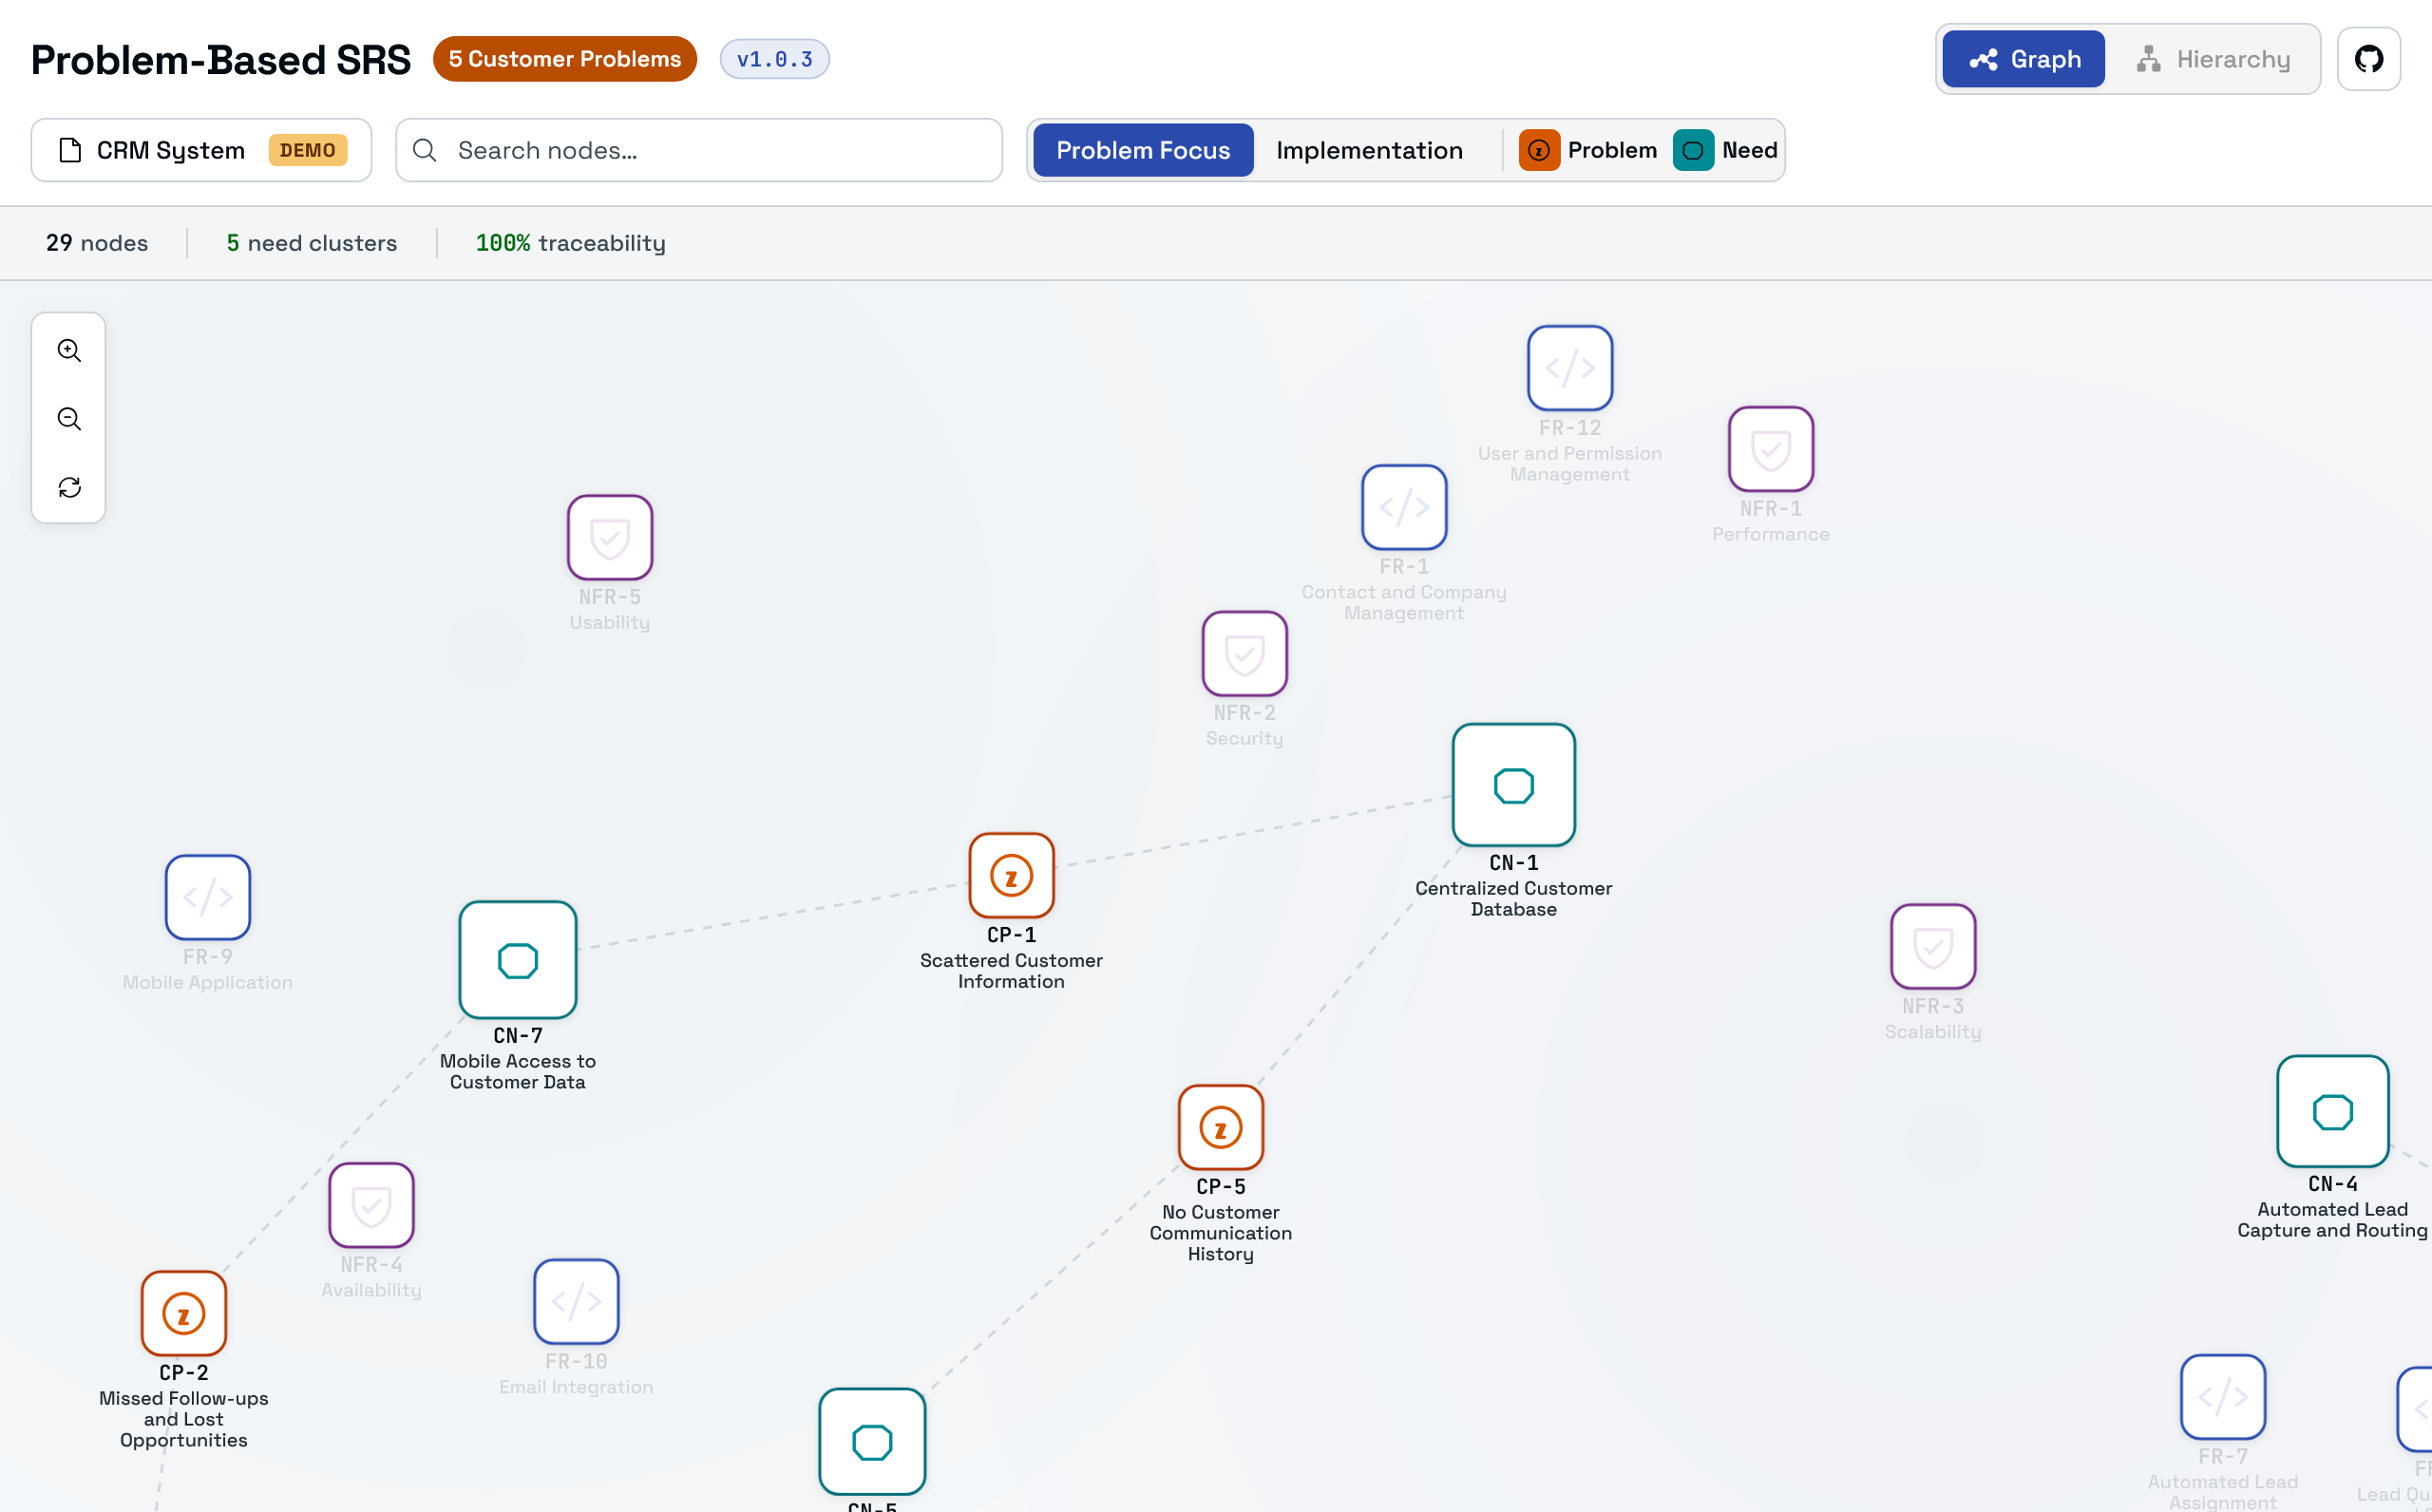
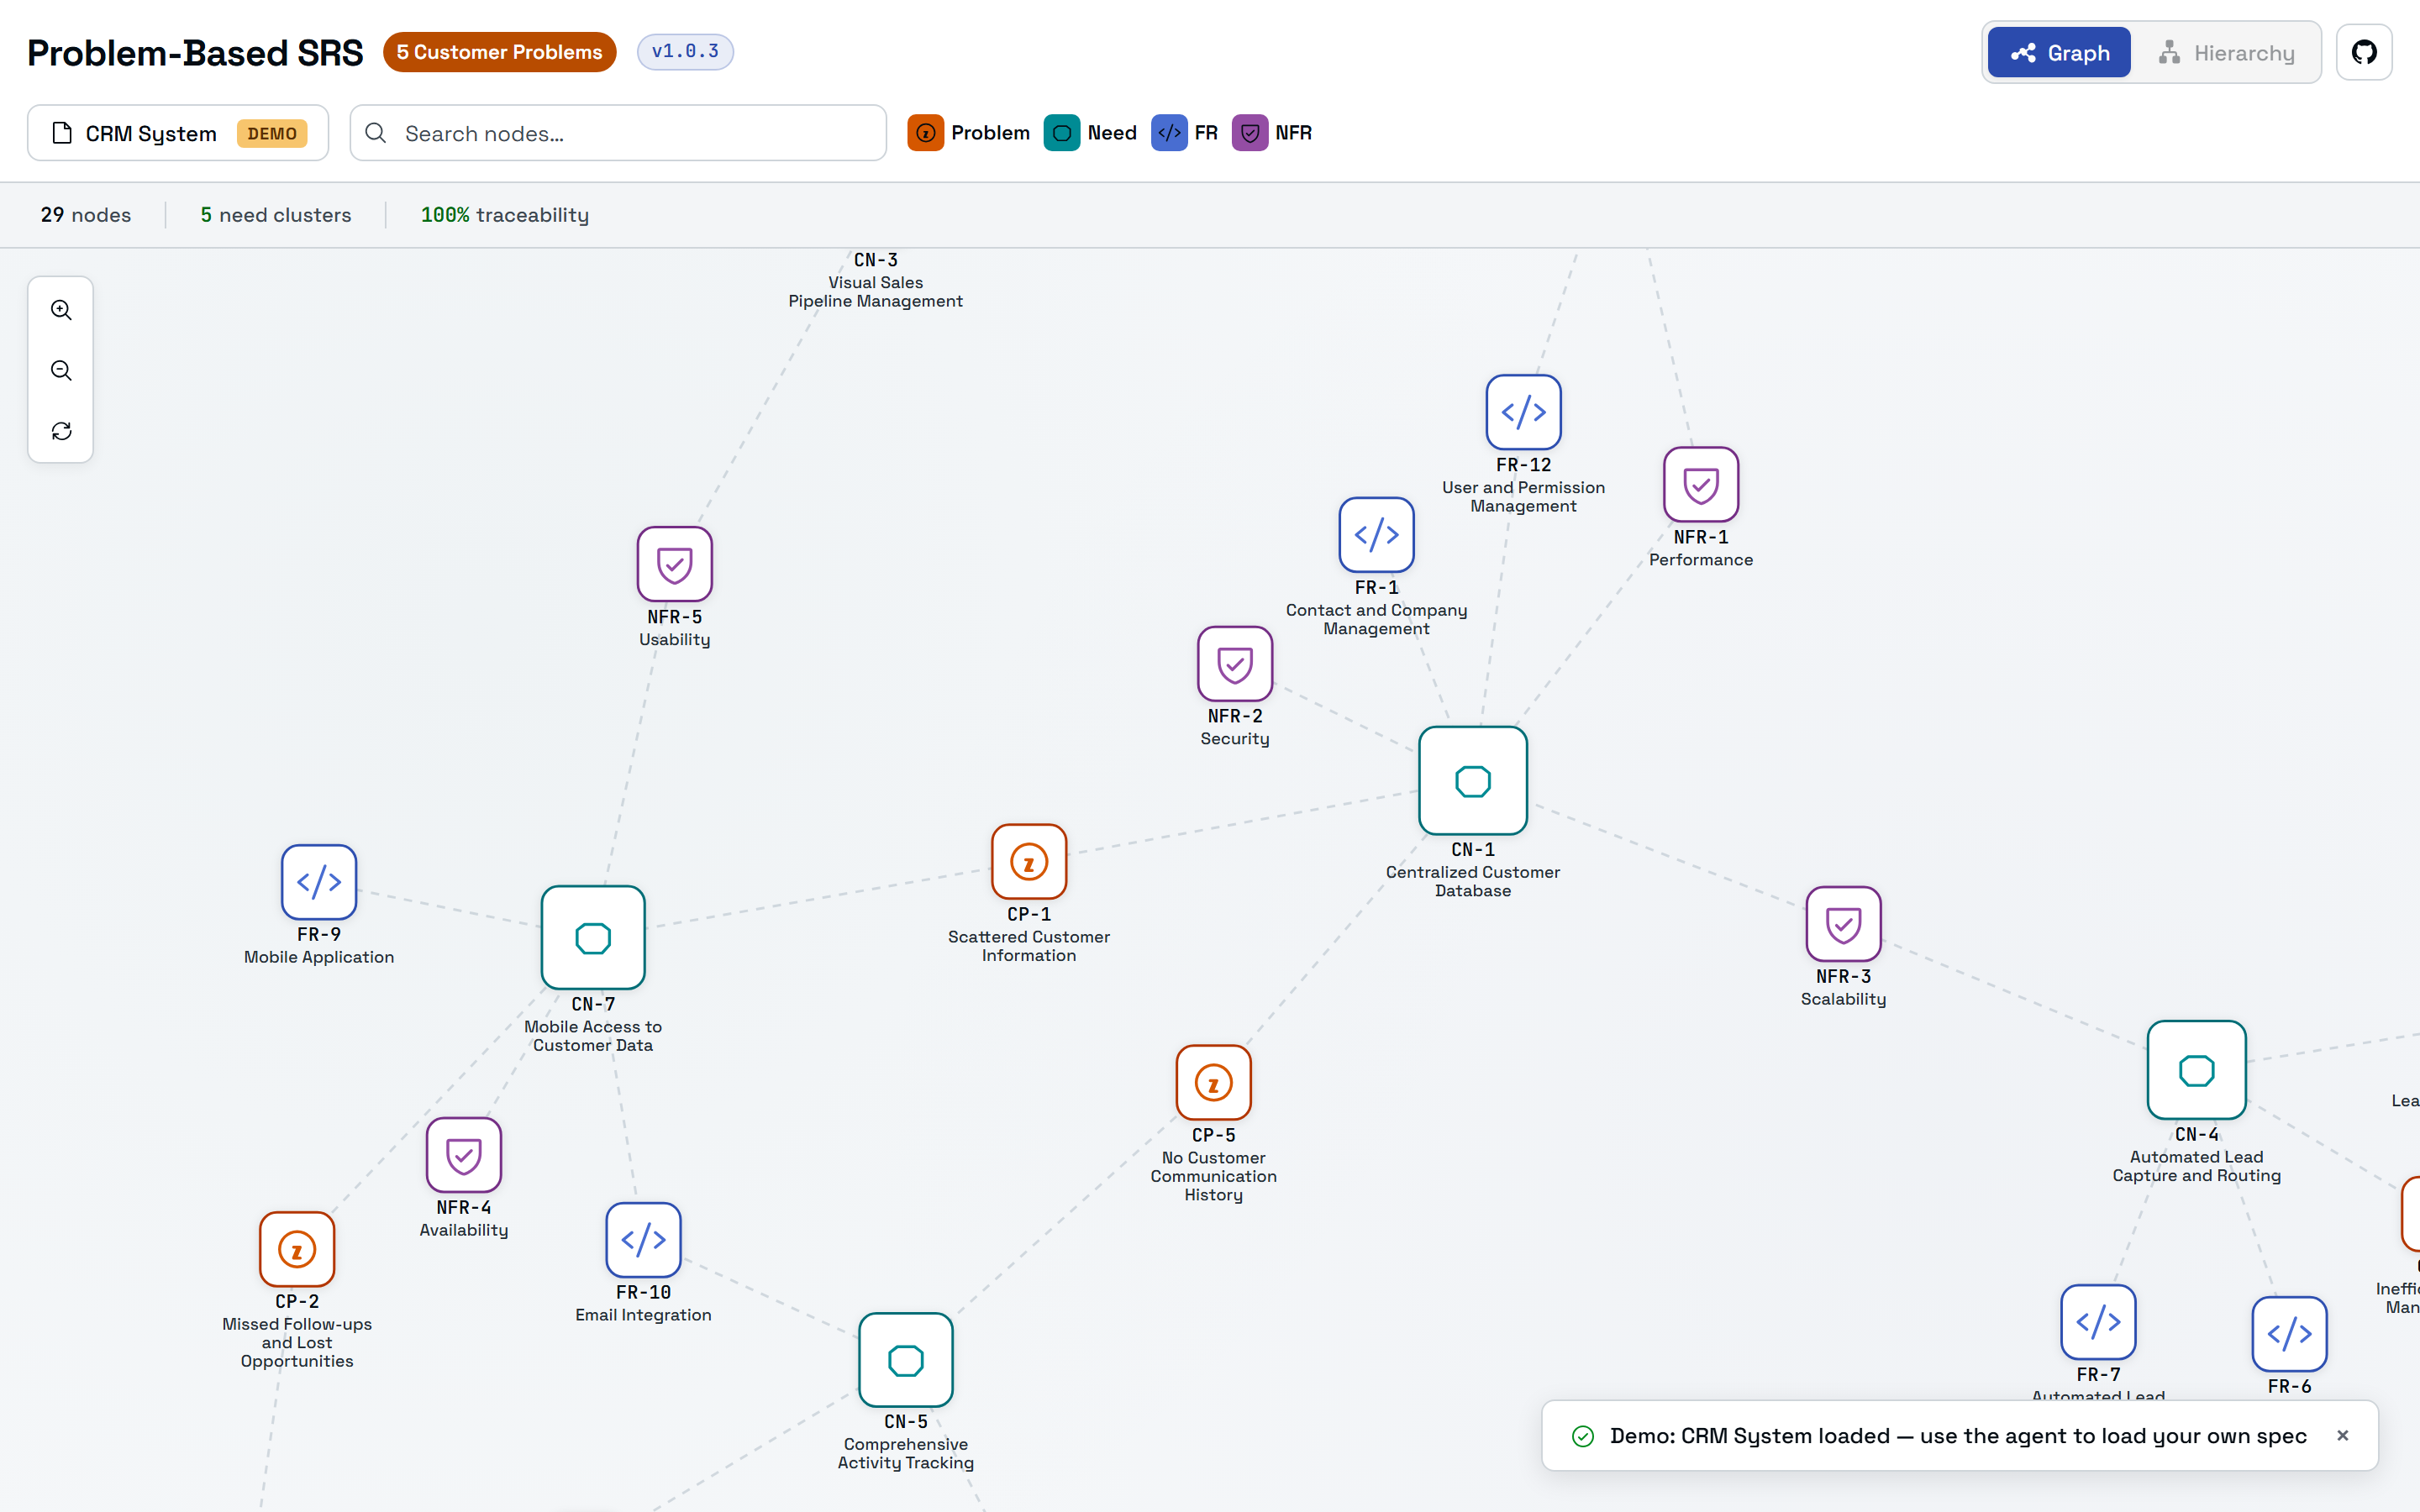
feat: Release 2.0 — Skills + SRS Navigator app
Reframe the project as two deliverables in one: the Problem-Based SRS Skills (methodology) and the SRS Navigator GitHub Copilot canvas app (visualize, decompose, and iterate a spec with the agent).

- README: new Skills + App scope table and a 'Decompose and iterate with the agent' walkthrough with real navigator screenshots (inline action bar + right-side agent-activity panel).
- GitHub Pages: new 'Iterate' section + nav entry documenting the agent interaction loop with annotated screenshots; bump version badges to v2.0.
- Add docs/assets/srs-navigator-actionbar.png and srs-navigator-iteration.png; refresh srs-navigator.png.
- Bump plugin.json to 2.0.0 and add CHANGELOG [2.0] section.

diff --git a/docs/index.html b/docs/index.html
@@ -397,6 +397,14 @@
         .app-frame img { display: block; width: 100%; height: auto; }
         .app-actions { margin-top: var(--space-lg); display: flex; gap: var(--space-md); flex-wrap: wrap; }
 
+        /* ── Iterate section: stacked annotated screenshots ── */
+        .shot-stack { display: grid; gap: var(--space-xl); margin-top: var(--space-xl); }
+        .shot figure { margin: 0; }
+        .shot-copy { margin-bottom: var(--space-md); }
+        .shot-copy h3 { font-size: var(--text-lg); margin: 0 0 0.4rem; }
+        .shot-copy p { color: var(--muted); max-width: 60ch; }
+        .shot figcaption { margin-top: var(--space-sm); font-family: var(--font-mono); font-size: var(--text-xs); color: var(--muted); }
+
         /* ── Footer CTA ── */
         /* ── Footer CTA — drenched dark panel, the bold close ── */
         .footer-cta {
@@ -483,12 +491,13 @@
         <div class="wrap">
             <div class="site-nav-id">
                 <a href="/" class="site-nav-brand" aria-label="Problem-Based SRS home">Problem-Based <span>SRS</span></a>
-                <a href="https://github.com/RafaelGorski/Problem-Based-SRS/releases" class="version-badge" target="_blank" rel="noopener" aria-label="Version 1.4, view releases">v1.4</a>
+                <a href="https://github.com/RafaelGorski/Problem-Based-SRS/releases" class="version-badge" target="_blank" rel="noopener" aria-label="Version 2.0, view releases">v2.0</a>
             </div>
             <ul class="site-nav-links">
                 <li><a href="#problem">The problem</a></li>
                 <li><a href="#methodology">How it works</a></li>
                 <li><a href="#visualize">Visualize</a></li>
+                <li><a href="#iterate">Iterate</a></li>
                 <li><a href="#start">Get started</a></li>
                 <li><a href="#commands">Commands</a></li>
                 <li><a href="#research">Research</a></li>
@@ -662,6 +671,52 @@
             </div>
         </section>
 
+        <!-- Iterate with the agent -->
+        <section id="iterate" class="section">
+            <div class="wrap">
+                <h2 class="reveal">Decompose and iterate with the agent</h2>
+                <p class="reveal section-lead">The navigator is more than a viewer — it's where you refine the specification <em>together with the agent</em>, without leaving the graph. Hover a node, describe the change, and the matching methodology skill does the work while traceability is preserved.</p>
+
+                <div class="shot-stack">
+                    <div class="shot reveal">
+                        <div class="shot-copy">
+                            <h3>1 &middot; The inline action bar</h3>
+                            <p>Hover any node to reveal an action bar. Type an instruction, then derive a downstream artifact (<code>+CN</code>, <code>+FR</code>, <code>+NFR</code>) or <strong>decompose</strong> the node into finer-grained, independently testable sub-items (<code>+Sub-FR</code>).</p>
+                        </div>
+                        <figure>
+                            <div class="app-frame">
+                                <div class="app-frame-bar">
+                                    <div class="app-dots" aria-hidden="true"><span></span><span></span><span></span></div>
+                                    <span class="app-frame-title">Copilot &middot; SRS Navigator</span>
+                                </div>
+                                <img src="assets/srs-navigator-actionbar.png" width="1440" height="900" loading="lazy" decoding="async"
+                                     alt="The SRS Navigator graph with a Functional Requirement node selected. A floating action bar below it holds a typed decompose instruction and +NFR and +Sub-FR action buttons.">
+                            </div>
+                            <figcaption>Hover a Functional Requirement, describe the change, and pick the decompose action.</figcaption>
+                        </figure>
+                    </div>
+
+                    <div class="shot reveal">
+                        <div class="shot-copy">
+                            <h3>2 &middot; The agent works in the side panel</h3>
+                            <p>Triggering an action opens the node's detail panel — description, complexity, and upstream/downstream traceability — alongside a live <strong>Agent Activity</strong> log. Your request runs through the methodology skill, the spec is edited, and the graph refreshes automatically.</p>
+                        </div>
+                        <figure>
+                            <div class="app-frame">
+                                <div class="app-frame-bar">
+                                    <div class="app-dots" aria-hidden="true"><span></span><span></span><span></span></div>
+                                    <span class="app-frame-title">Copilot &middot; SRS Navigator</span>
+                                </div>
+                                <img src="assets/srs-navigator-iteration.png" width="1440" height="900" loading="lazy" decoding="async"
+                                     alt="The SRS Navigator with a right-side detail panel open for a Functional Requirement, showing its traceability and an Agent Activity conversation where the user asks to decompose the requirement and the agent is working on it.">
+                            </div>
+                            <figcaption>The detail panel shows traceability and a live conversation as the agent decomposes the requirement.</figcaption>
+                        </figure>
+                    </div>
+                </div>
+            </div>
+        </section>
+
         <!-- Quick Start -->
         <section id="start" class="section">
             <div class="wrap">
@@ -792,7 +847,7 @@ Our warehouse tracks everything in spreadsheets and loses $50k/month due to erro
 
     <footer class="site-footer">
         <div class="wrap">
-            <p>Problem-Based SRS · <a href="https://github.com/RafaelGorski/Problem-Based-SRS/releases" class="footer-version">v1.4</a> · Methodology by Gorski &amp; Stadzisz</p>
+            <p>Problem-Based SRS · <a href="https://github.com/RafaelGorski/Problem-Based-SRS/releases" class="footer-version">v2.0</a> · Methodology by Gorski &amp; Stadzisz</p>
             <p class="footer-links">
                 <a href="https://github.com/RafaelGorski/Problem-Based-SRS">GitHub</a>
                 <a href="https://github.com/RafaelGorski/Problem-Based-SRS/blob/main/CHANGELOG.md">Changelog</a>

diff --git a/CHANGELOG.md b/CHANGELOG.md
@@ -7,20 +7,37 @@ and this project adheres to [Semantic Versioning](https://semver.org/spec/v2.0.0
 
 ## [Unreleased]
 
+## [2.0] - 2026-06-29
+
+Version 2.0 reframes the project around **two deliverables in one**: the Problem-Based
+SRS **Skills** (the methodology) and the **SRS Navigator app** (the GitHub Copilot canvas
+for visualizing, decomposing, and iterating a specification with the agent).
+
+### Added
+
+- **README scope refresh**: a "Skills + App" overview table up top, plus a
+  "Decompose and iterate with the agent" walkthrough with real screenshots of the
+  inline action bar and the right-side agent-activity panel.
+- **GitHub Pages — new "Iterate" section**: documents the agent interaction loop
+  (hover → action bar → decompose → agent works in the side panel) with annotated
+  screenshots, and adds an "Iterate" entry to the site navigation.
+- **New navigator screenshots** in `docs/assets/`: `srs-navigator-actionbar.png`
+  (inline action bar with a decompose instruction on a Functional Requirement) and
+  `srs-navigator-iteration.png` (detail panel with traceability and a live Agent
+  Activity conversation), plus a refreshed `srs-navigator.png` graph overview.
+
 ### Changed
 
-- **Single source of truth for skills**: the SRS Navigator canvas now reads the methodology
-  skills **live** from the repo's canonical `skills/<slug>/SKILL.md` at runtime, falling
-  back to the bundled flat copies only for standalone installs. The bundled copies are
-  regenerated from the canonical skills purely for packaging.
+- Project version bumped to **2.0** across `plugin.json`, the README badge, and the
+  GitHub Pages version badges.
 
-### Removed
+### Notes
 
-- **Runtime "Sync Skills from GitHub" feature**: removed the `/api/sync-skills` endpoint,
-  the landing-page button, and the network sync path (`--remote`/`SKILL_SOURCE`). Bundled
-  skills are refreshed locally from `skills/` via `npm run sync-skills`.
-- All references to the former `RafaelGorski/problem-based-srs-app` repo; install URLs and
-  docs now point to `RafaelGorski/Problem-Based-SRS`.
+- The single source of truth for skills (canvas reads canonical `skills/<slug>/SKILL.md`
+  at runtime) and the removal of the runtime "Sync Skills from GitHub" feature, previously
+  staged under Unreleased, ship as part of this release.
+
+[2.0]: https://github.com/RafaelGorski/Problem-Based-SRS/releases/tag/v2.0
 
 ## [1.4] - 2026-06-29
 

diff --git a/README.md b/README.md
@@ -1,10 +1,19 @@
 # Problem-Based SRS
 
-[![Version 1.4](https://img.shields.io/badge/version-1.4-green.svg)](https://github.com/RafaelGorski/Problem-Based-SRS/releases/tag/v1.4)
+[![Version 2.0](https://img.shields.io/badge/version-2.0-green.svg)](https://github.com/RafaelGorski/Problem-Based-SRS/releases/tag/v2.0)
 [![AgentSkills](https://img.shields.io/badge/AgentSkills-Open%20Standard-blue)](https://agentskills.io)
 [![License: MIT](https://img.shields.io/badge/License-MIT-yellow.svg)](https://opensource.org/licenses/MIT)
 
 AI-guided requirements engineering that traces every feature back to the customer problem it solves. An [AgentSkill](https://agentskills.io) for GitHub Copilot, Claude Code, and other AI coding assistants.
+
+**Version 2.0 ships two things in one project:**
+
+| | What it is | Where it runs |
+|---|------------|---------------|
+| 🧠 **Skills** | The Problem-Based SRS methodology as agent-native skills (Business Context → CP → CN → FR, with traceability and validation). | GitHub Copilot, Claude Code, and any AgentSkills-compatible assistant |
+| 🗺️ **App** | The **SRS Navigator** — a GitHub Copilot canvas app that visualizes your spec as an interactive graph and lets you decompose and iterate requirements with the agent, in place. | The GitHub Copilot side panel (`/live`) |
+
+![SRS Navigator — interactive force-directed graph of Customer Problems, Customer Needs, and Functional / Non-Functional Requirements](docs/assets/srs-navigator.png)
 
 ## The problem this solves
 
@@ -144,6 +153,25 @@ analysis mode, search nodes, and inspect dependencies inside the Copilot side pa
 Run `/live` and your assistant opens the navigator on the current `.spec/` (or a built-in
 CRM demo if you haven't created one yet). The extension also bundles the full methodology
 as agent tools, so every step is available without leaving the panel.
+
+### Decompose and iterate with the agent
+
+The navigator isn't read-only — it's where you **refine the spec together with the agent**.
+Hover any node to reveal an inline action bar. Describe the change you want, then pick an
+action: derive a downstream artifact (`+CN`, `+FR`, `+NFR`) or **decompose** the node into
+finer-grained, independently testable sub-items (`+Sub-FR`).
+
+![Inline action bar on a Functional Requirement node, with a decompose instruction typed in and the +Sub-FR action ready](docs/assets/srs-navigator-actionbar.png)
+
+Triggering an action opens the node's detail panel on the right. You see the full
+context — description, complexity, and upstream/downstream traceability — alongside a live
+**Agent Activity** conversation. Your request is sent to the matching methodology skill, the
+agent edits the specification, and the graph refreshes automatically when it's done.
+
+![Right-side detail panel showing FR-1 traceability and an Agent Activity log where the agent is decomposing the requirement](docs/assets/srs-navigator-iteration.png)
+
+The result: a tight loop where the visual graph, the methodology skills, and the agent all
+operate on a single, fully-traced specification.
 
 ## Installation
 